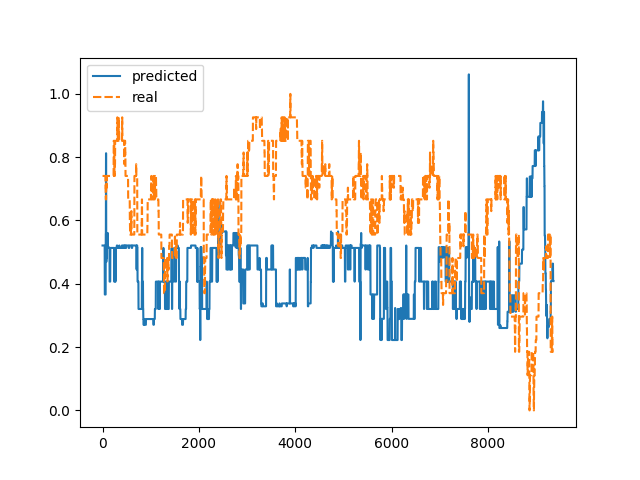
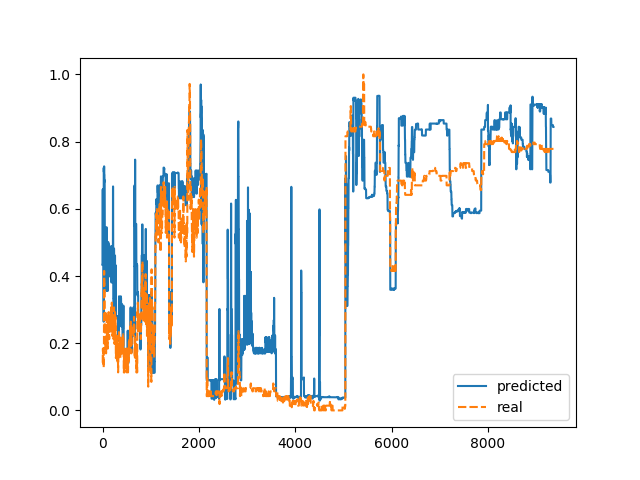
adding part debugging

diff --git a/src/modelling/part_model/partlib.py b/src/modelling/part_model/partlib.py
@@ -75,9 +75,12 @@ class ParameterModel:
 
         X = data[self.input_params]
         y = data[self.output_params]
+        #
+        # print (X)
+        # print (y)
 
-        X, X_norm = Data.mean_normalize(X)
-        y, y_norm = Data.minmax_normalize(y)
+        # X, X_norm = Data.mean_normalize(X)
+        # y, y_norm = Data.minmax_normalize(y)
 
         # sns.lineplot(data=X)
         # sns.lineplot(data=y)
@@ -85,6 +88,8 @@ class ParameterModel:
 
         _X = X.to_numpy()
         _y = y.to_numpy()
+
+        print (_y)
 
         if self.X is None:
             self.X = _X
@@ -112,8 +117,8 @@ class ParameterModel:
         # sns.lineplot(data=self.y)
         # plt.savefig(self.name + ".png")
 
-        # self.X = scale(self.X, axis=0)
-        # self.y = scale(self.y, axis=0, with_mean=False)
+        self.X = scale(self.X, axis=0)
+        self.y = scale(self.y, axis=0, with_mean=False)
 
         reduce_lr = keras.callbacks.LearningRateScheduler(schedule=Model.lrschedule, verbose=True)
         for iteration in range(1):

diff --git a/src/modelling/dc_defs.py b/src/modelling/dc_defs.py
@@ -152,7 +152,7 @@ chiller_input_params = [
 # pue_full_input = ['PDU/ZONE_2/DC_TOTAL_LOAD', 'oat1', 'oah', 'CH_{n}/Evaporator Saturation Temp']
 # pue_full_output = ['PDU/ZONE_2/PUE']
 
-pahu_input_params = ["SF/Z{m} PAHU {n}/RETURN_TEMP", 'SF/Z{m} PAHU {n}/SUP_TEMP']
+pahu_input_params = ["SF/Z{m} PAHU {n}/RETURN_TEMP", 'SF/Z{m} PAHU {n}/SUP_TEMP', 'CH_1_SUPPLY', 'CH_2_SUPPLY']
 pahu_output_params = ['SF/Z{m} PAHU {n}/FAN_SPEED']
 
 pue_full_input = ['HUMIDITY_SENSOR/Z{m}S{n}_PDU_HUMI_{k}',
@@ -212,7 +212,7 @@ for param in pue_full_output:
 # ================= DONE MAKING ======================
 
 parts = {
-    "chiller": chillers,
+    # "chiller": chillers,
     "pahu": pahus,
     # "pue":pue_part,
 }

diff --git a/src/modelling/part_model/part_degradation.py b/src/modelling/part_model/part_degradation.py
@@ -7,7 +7,6 @@ from pathlib import Path
 
 def model_test(model, X, y, idname, debug_dir):
     # model = part.model
-
     score = model.evaluate(X, y)
     print(score)
 
@@ -23,7 +22,7 @@ def model_test(model, X, y, idname, debug_dir):
     plt.clf()
     return score
 
-def test(sensor_csv_file, model_dir, debug):
+def measure_degradation(sensor_csv_file, model_dir, debug):
     part_configs = configs.parts
     data = Data(sensor_csv_file)
     data.load()
